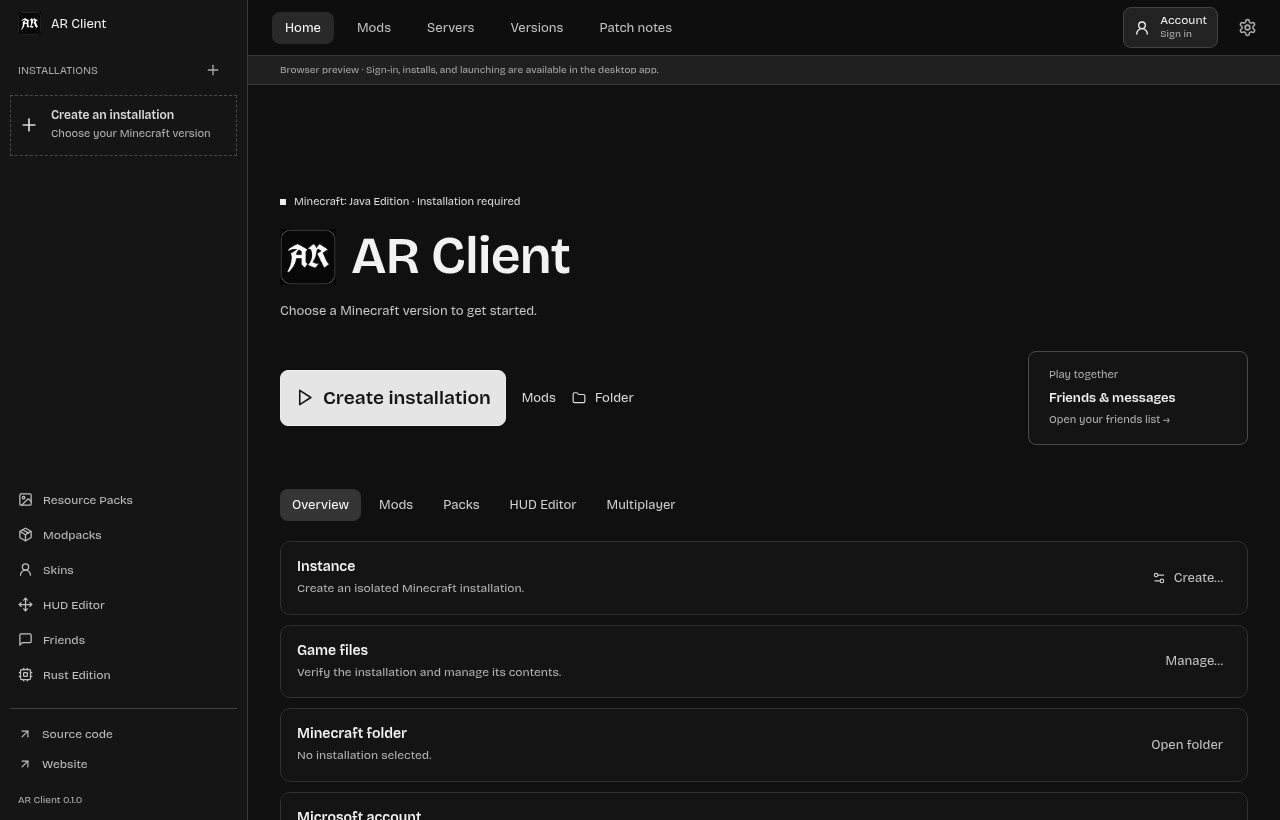
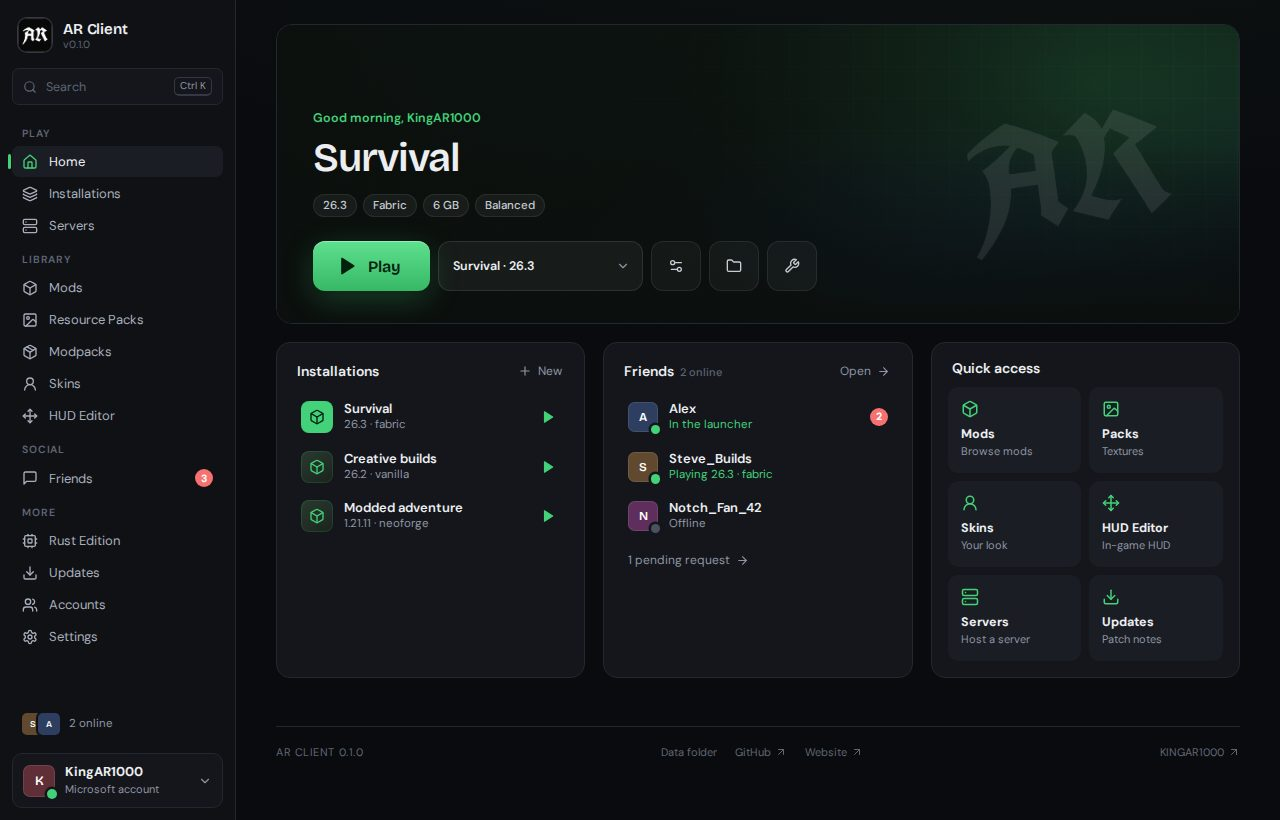
Add files via upload

diff --git a/website/index.html b/website/index.html
@@ -6,8 +6,21 @@
     <meta name="theme-color" content="#0b0b0b" />
     <meta
       name="description"
-      content="AR Client. A free, open-source Minecraft Java launcher by KingAR1000. The latest stable Minecraft, isolated installations, mods, and skins. No ads."
+      content="AR Client. A free, open-source Minecraft Java launcher by KingAR1000. The latest stable Minecraft, isolated installations, mods, skins, and verified friends and chat. No ads."
     />
+    <meta property="og:type" content="website" />
+    <meta property="og:site_name" content="AR Client" />
+    <meta property="og:title" content="AR Client — Minecraft, on your terms." />
+    <meta
+      property="og:description"
+      content="A free, open-source Minecraft Java launcher. Installations, mods, skins, and friends — no ads."
+    />
+    <meta property="og:url" content="https://client.kingar1000.xyz/" />
+    <meta
+      property="og:image"
+      content="https://client.kingar1000.xyz/assets/launcher.jpg"
+    />
+    <meta name="twitter:card" content="summary_large_image" />
     <title>AR Client — Minecraft, on your terms.</title>
     <link rel="icon" type="image/png" href="/assets/ar-mark.png" />
     <link
@@ -36,6 +49,8 @@
         --ink: #f1f1f1;
         --muted: #a2a2a2;
         --line: #ffffff22;
+        --accent: #43d17a;
+        --accent-ink: #04210f;
       }
       * {
         box-sizing: border-box;
@@ -72,12 +87,12 @@
       a:focus-visible,
       button:focus-visible,
       summary:focus-visible {
-        outline: 2px solid white;
+        outline: 2px solid var(--accent);
         outline-offset: 6px;
       }
       ::selection {
-        background: #fff;
-        color: #111;
+        background: var(--accent);
+        color: var(--accent-ink);
       }
       h1,
       h2,
@@ -199,7 +214,7 @@
       }
       .hero h1 span {
         color: transparent;
-        -webkit-text-stroke: 1px #f1f1f1;
+        -webkit-text-stroke: 1px var(--accent);
       }
       .hero-description {
         font-size: 15px;
@@ -218,19 +233,20 @@
         align-items: center;
         justify-content: center;
         gap: 30px;
-        background: #ededed;
-        color: #151515;
+        background: var(--accent);
+        color: var(--accent-ink);
         min-height: 51px;
         padding: 0 23px;
         font-size: 12px;
         font-weight: bold;
-        border: 1px solid #ededed;
+        border: 1px solid var(--accent);
+        box-shadow: 0 10px 34px #43d17a33;
         transition:
           background 0.16s,
           transform 0.16s;
       }
       .button:hover {
-        background: #fff;
+        background: #5ee08f;
         transform: translateY(-2px);
       }
       .source-link {
@@ -352,6 +368,67 @@
       }
       .feature-rows {
         padding-top: 50px;
+      }
+      .section-number {
+        color: var(--accent);
+      }
+      .social-section {
+        display: grid;
+        grid-template-columns: 0.85fr 1.15fr;
+        gap: 56px;
+        align-items: center;
+      }
+      .social-section h2 {
+        margin: 14px 0 18px;
+      }
+      .social-section > div > p {
+        color: var(--muted);
+        max-width: 420px;
+        line-height: 1.8;
+      }
+      .social-points {
+        list-style: none;
+        padding: 0;
+        margin: 28px 0 0;
+        border-top: 1px solid var(--line);
+      }
+      .social-points li {
+        display: grid;
+        grid-template-columns: 18px 1fr;
+        gap: 14px;
+        padding: 16px 0;
+        border-bottom: 1px solid var(--line);
+        font-size: 13px;
+        color: #cfcfcf;
+      }
+      .social-points li::before {
+        content: "";
+        width: 8px;
+        height: 8px;
+        margin-top: 7px;
+        border-radius: 50%;
+        background: var(--accent);
+        box-shadow: 0 0 12px var(--accent);
+      }
+      .social-shot {
+        border: 1px solid var(--line);
+        border-radius: 14px;
+        overflow: hidden;
+        box-shadow:
+          0 40px 120px #000,
+          0 0 0 1px #43d17a1a,
+          0 0 80px #43d17a14;
+      }
+      .social-shot img {
+        display: block;
+        width: 100%;
+        height: auto;
+      }
+      @media (max-width: 900px) {
+        .social-section {
+          grid-template-columns: 1fr;
+          gap: 36px;
+        }
       }
       .feature-row {
         display: grid;
@@ -907,7 +984,7 @@
         ></a
       >
       <nav class="nav-links" aria-label="Main navigation">
-        <a href="#launcher">The launcher</a
+        <a href="#launcher">The launcher</a><a href="#friends">Friends</a
         ><a href="https://github.com/KingAR1000/AR-Client">GitHub ↗</a
         ><a class="nav-download" href="#download"
           >Get AR Client <span aria-hidden="true">↓</span></a
@@ -921,7 +998,7 @@
           <h1 id="title">Your world.<br /><span>Your way.</span></h1>
           <p class="hero-description">
             An installation for every way you play.<br />Minecraft, mods and
-            friends. One free launcher.
+            verified friends with chat. One free launcher.
           </p>
           <div class="actions">
             <a class="button" href="#download"
@@ -972,11 +1049,13 @@
             width="1280"
             height="820"
             loading="lazy"
-            alt="AR Client Night interface with an installation sidebar, clean launch controls and a plain dark background"
+            alt="AR Client home screen with navigation sidebar, a large Play button, installations, online friends and quick access tiles"
           />
         </div>
         <div class="screenshot-note">
-          <span>Actual interface · Browser preview · Development build.</span
+          <span
+            >Actual interface · Shown with sample data · Development
+            build.</span
           ><span>Windows 11 / 64-bit</span>
         </div>
         <div class="feature-rows">
@@ -1006,12 +1085,68 @@
               version-specific Fabric companion adds an editable in-game HUD.
             </p>
           </article>
+          <article class="feature-row">
+            <span>04</span>
+            <h3>Host for your friends.</h3>
+            <p>
+              Run an isolated, whitelisted Java server on your own computer,
+              with a live console, from the same launcher.
+            </p>
+          </article>
+          <article class="feature-row">
+            <span>05</span>
+            <h3>Everything, one shortcut away.</h3>
+            <p>
+              Press Ctrl+K to launch an installation, jump to any page, or
+              message a friend without reaching for the mouse.
+            </p>
+          </article>
+        </div>
+      </section>
+      <section
+        class="wrap section"
+        id="friends"
+        aria-labelledby="friends-title"
+      >
+        <div class="social-section">
+          <div>
+            <p class="section-number mono">02 / Friends &amp; chat</p>
+            <h2 id="friends-title">Play together,<br />stay in touch.</h2>
+            <p>
+              Add friends by Minecraft username, see who’s online and what
+              they’re playing, and chat privately — with notifications anywhere
+              in the launcher.
+            </p>
+            <ul class="social-points">
+              <li>
+                Identities are proven with Mojang-signed certificates. Your
+                Minecraft sign-in token never leaves your computer.
+              </li>
+              <li>
+                Unread badges, read receipts and live presence, refreshed
+                automatically.
+              </li>
+              <li>
+                Block anyone, delete your social data at any time. Messages
+                expire after 30 days and are not end-to-end encrypted.
+              </li>
+            </ul>
+          </div>
+          <div class="social-shot">
+            <img
+              src="/assets/friends.jpg"
+              width="1280"
+              height="820"
+              loading="lazy"
+              alt="AR Client Friends screen showing a friends list with online status and a private chat conversation"
+            />
+          </div>
         </div>
       </section>
       <section class="wrap version-section" aria-labelledby="version-title">
         <div>
           <p class="section-number mono" id="version-title">
-            02 / Latest stable, first
+            03 / Latest stable, first
           </p>
           <div class="version-display">
             <strong id="minecraft-version">26.3</strong
@@ -1039,7 +1174,7 @@
       <section class="wrap section" id="download">
         <div class="download">
           <div class="download-copy">
-            <p class="section-number mono">03 / Get AR Client</p>
+            <p class="section-number mono">04 / Get AR Client</p>
             <h2>Your next world<br />starts here.</h2>
             <p>
               Free to use. Free to change. A Microsoft account with access to
@@ -1120,6 +1255,18 @@
                 >validation notes</a
               >
               for the tested scope and remaining limitations.
+            </p>
+          </details>
+          <details>
+            <summary>How do friends and chat work?</summary>
+            <p>
+              Open Friends in the launcher and connect once. AR Client proves
+              your identity to its free Cloudflare-hosted service with
+              Mojang-signed data, then you can add friends by their exact
+              Minecraft username. Messages are only allowed between accepted
+              friends, are kept for 30 days, and are not end-to-end encrypted.
+              Your friend must also connect to Friends once before they can
+              receive a request.
             </p>
           </details>
           <details>

diff --git a/website/privacy.html b/website/privacy.html
@@ -56,7 +56,7 @@
       <nav><a href="index.html">← AR Client</a></nav>
       <h1>Privacy</h1>
       <p>
-        Updated 29 October 2026. AR Client is maintained by KingAR1000. Contact
+        Updated 21 November 2026. AR Client is maintained by KingAR1000. Contact
         <a href="mailto:hello@kingar1000.xyz">hello@kingar1000.xyz</a>.
       </p>
       <h2>Information on your device</h2>
@@ -120,12 +120,16 @@
       <footer>AR Client · KingAR1000 · GPL v3</footer>
       <h2>Optional friends and chat</h2>
       <p>
-        When you connect to AR Client Friends, the social service verifies your
-        Minecraft account using your Minecraft access token. It does not retain
-        that token or receive your Microsoft refresh token. It stores your
-        Minecraft ID and name, last-seen time while Friends is open, friend
-        requests, friendships, blocks, hashed expiring social sessions, and
-        messages.
+        When you connect to AR Client Friends, the launcher obtains your
+        Mojang-signed public profile and profile certificate from Mojang and
+        sends them, with a one-time proof signed by a key that stays on your
+        computer, to the social service. Your Minecraft access token and
+        Microsoft refresh token are never sent to it. The service stores your
+        Minecraft ID, name and skin address, last-seen time and a short activity
+        status (for example "Playing 26.3") while AR Client is connected, friend
+        requests, friendships, blocks, read positions, hashed expiring social
+        sessions, and messages. Only accepted friends see your online status and
+        activity.
       </p>
       <p>
         Messages are available only between accepted friends, are not end-to-end

diff --git a/README.md b/README.md
@@ -8,7 +8,7 @@ The primary target is always the **latest stable Minecraft release**, currently 
 
 ## Source
 
-- `src/`: React/TypeScript launcher interface, skin viewer and HUD editor.
+- `src/`: React/TypeScript launcher interface, skin viewer and HUD editor. Press Ctrl+K in the launcher for the command palette. `npm run dev` then `http://127.0.0.1:1420/?preview` shows the interface with sample data (development builds only).
 - `src-tauri/`: Rust authentication, installation, content and launch services.
 - `in-game/`: Fabric companion mod.
 - `website/`: Cloudflare Free website and API worker; see [hosting instructions](website/HOSTING.md).
@@ -73,7 +73,9 @@ The project owner must submit/review **a638a66e-7242-4bbe-b197-631d1ce1d7fb** at
 
 ## Friends and chat
 
-The Friends screen connects verified Minecraft identities, sends and accepts requests, removes friends, blocks players, and exchanges messages only between accepted friends. It supports recent-message polling, older-message retrieval and social-account deletion. Messages expire after 30 days and are not end-to-end encrypted. The Minecraft access token is used transiently to verify identity; the service stores only hashed, expiring social-session tokens. Native social-session tokens stay in memory. Microsoft refresh tokens remain in the OS vault.
+The Friends screen connects verified Minecraft identities, sends and accepts requests (two players requesting each other become friends), removes friends, blocks players, and exchanges messages only between accepted friends. The connection is launcher-wide once enabled: online friends, their activity (for example "Playing 26.3"), unread badges and in-app notifications work on every page, with read receipts and incremental message polling in chat. Messages expire after 30 days and are not end-to-end encrypted.
+
+Mojang blocks requests from Cloudflare Workers, so the service never contacts Mojang. Instead the launcher fetches its Mojang-signed profile (ID and current username) and its Mojang-signed profile certificate, then signs a single-use proof with the certificate's private key. The Worker verifies all three against pinned Mojang public keys. The Minecraft access token and the private key never leave the computer. Usernames are resolved to UUIDs on the player's computer. The service stores only hashed, expiring social-session tokens; native social-session tokens stay in memory and Microsoft refresh tokens remain in the OS vault. Accounts whose Xbox privacy or family settings block online multiplayer cannot obtain a profile certificate and therefore cannot use Friends.
 
 The Cloudflare Worker and D1 schema are in [`social/`](social/README.md). The backend Worker `ar-client` is deployed at `https://social.client.kingar1000.xyz/` on Workers/D1 Free. Health and unauthenticated rejection checks pass; real-account friends/chat still requires successful Minecraft login and end-to-end validation. A build can override the default service URL with `AR_SOCIAL_URL`; do not direct account tokens to an untrusted service.
 

diff --git a/VALIDATION.md b/VALIDATION.md
@@ -23,6 +23,7 @@ Checks below were recorded on 28 October–5 November 2026. Installation and com
 - Live local Minecraft 26.3 dedicated server: verified server/Java downloads, startup, console command, graceful stop and saved `world/level.dat` passed on Linux.
 - Actual Horizon Nightly `2026-11-01 · c9d474d`: Linux archive SHA-256, signed-checksum verification and actual client/preparer option contracts passed. The published preparer lacks `--launch-api`; its real help and research-lock fallback were checked. This does not establish Windows Rust gameplay or successful resource preparation.
 - Local Workers/D1 integration tests passed for authentication refusal, friend acceptance, friend-only messages, outsider denial, blocking/unblocking, input limits and social profile/session revocation. The social service is now deployed on D1/Workers Free; health returns 200 and unauthenticated calls return 401. Full real-account chat is still unverified.
+- Social v2 (21 November 2026): Mojang rejects requests from Cloudflare Workers, which made v1 session verification and username lookup fail in production. v2 removes all Worker-to-Mojang requests. Local workerd/D1 tests now cover Mojang-signed profile/certificate verification with generated keys, single-use proofs, wrong-host/stale/renamed/foreign-certificate rejection, mutual requests, unread counts, read receipts, incremental message polling and presence. The pinned Mojang profile-property key verifies a real Mojang-signed profile fixture. Rust tests cover proof signing with Mojang-format PKCS#8 keys. A live two-account session against Mojang's real certificate endpoint is still unverified.
 - Minecraft login 403 is now actionable and regression-tested for secret redaction. The owner reported app registration approval on 3 November; authenticated gameplay is still unverified.
 
 ## 3 November credential storage fix

diff --git a/AGENTS.md b/AGENTS.md
@@ -1,0 +1,16 @@
+# AR Client — agent notes
+
+## Layout
+
+- `src/` React launcher UI (Vite). `src/social.ts` is the launcher-wide friends connection; `src/preview.ts` is dev-only sample data.
+- `src-tauri/` Rust backend (`social.rs` builds the Mojang-signed friends session).
+- `social/` Cloudflare Worker + D1 for friends/chat. Never add Worker-to-Mojang requests: Mojang blocks Cloudflare egress.
+- `website/` Cloudflare static site + API worker. `in-game/` Fabric companion (needs JDK 25 + Gradle).
+
+## Verify
+
+- `npm test` (vitest + release + website tests), `npm run build` (tsc + vite)
+- `cd social && npm test` (Miniflare/workerd + D1), `npm run build` (wrangler dry run)
+- `cargo test --manifest-path src-tauri/Cargo.toml --no-default-features --locked`
+- Format JS/TS/CSS/HTML with `npx prettier --write <files>`.
+- UI preview with sample data: `npm run dev`, open `http://127.0.0.1:1420/?preview#<Page>`.
